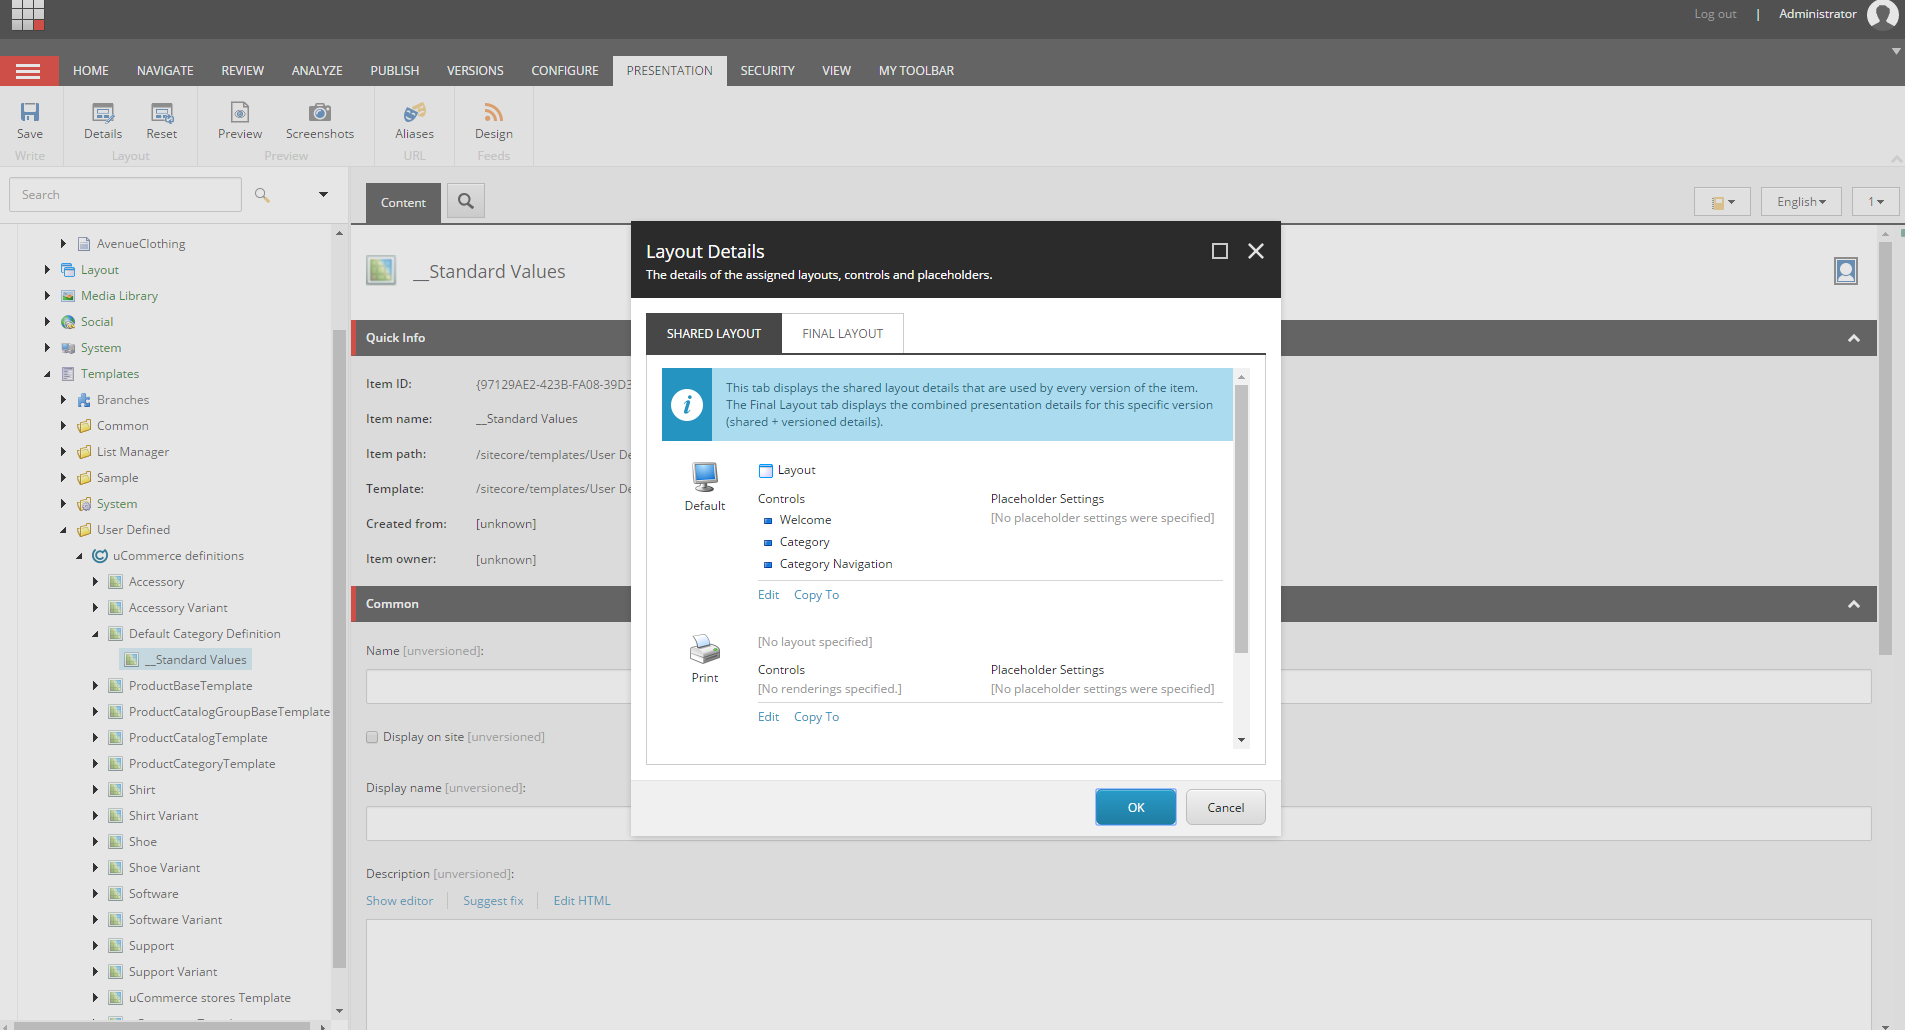
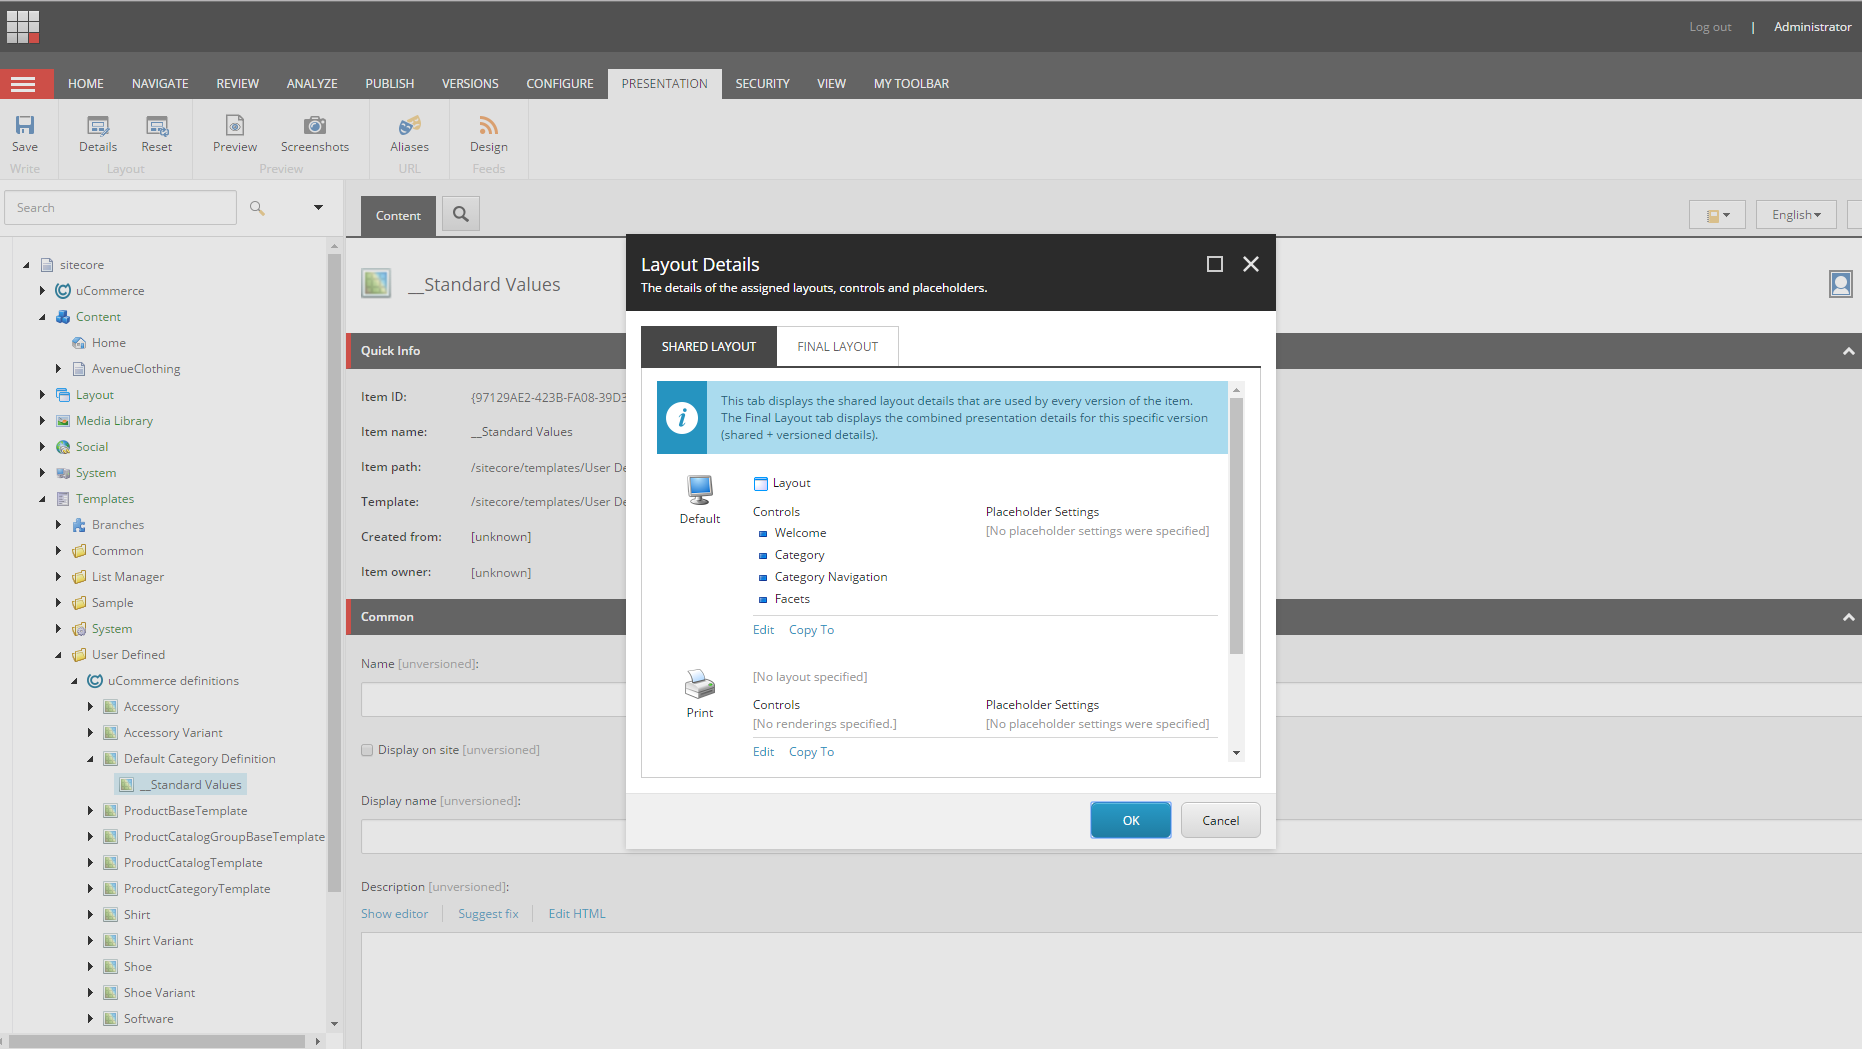
Create a facets module and update the image of how the category definition template should look like.

Changed region(s): [[0.0, 0.0, 1.0, 1.0], [0.8722, 0.0, 0.9968, 0.0311], [0.0, 0.1864, 0.0311, 0.2175]]

diff --git a/src/AvenueClothing.Feature.Catalog.Module/Controllers/FacetsController.cs b/src/AvenueClothing.Feature.Catalog.Module/Controllers/FacetsController.cs
@@ -1,0 +1,25 @@
+using System.Collections.Generic;
+using System.Web.Mvc;
+using AvenueClothing.Feature.Catalog.Module.ViewModels;
+using UCommerce.Api;
+using UCommerce.Content;
+using UCommerce.Extensions;
+using UCommerce.Infrastructure;
+using UCommerce.Runtime;
+using UCommerce.Search.Facets;
+using UCommerce.Search;
+
+namespace AvenueClothing.Feature.Catalog.Module.Controllers
+{
+	public class FacetsController : Controller
+	{
+		public ActionResult Facets()
+		{
+
+
+			return View("/views/Facets.cshtml");
+		}
+
+	}
+
+}
